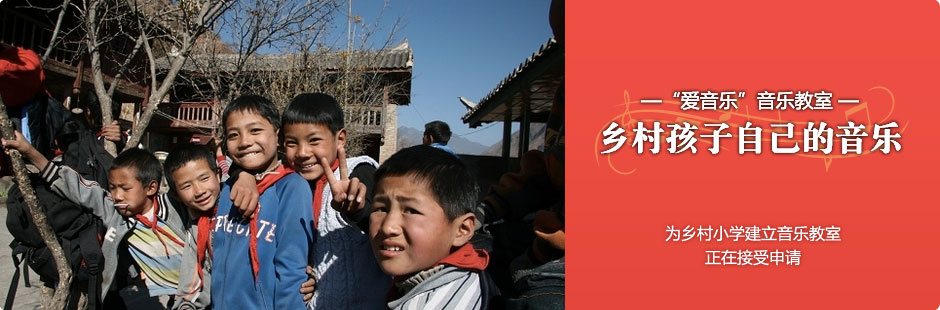
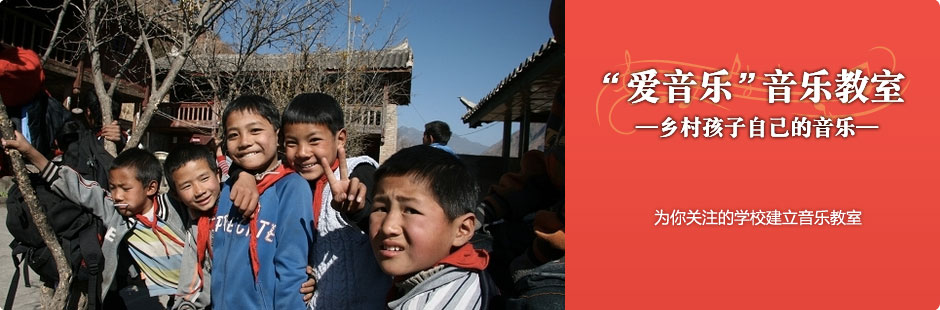
修改音乐教室页面

diff --git a/public/stylesheets/kuailebox.css b/public/stylesheets/kuailebox.css
@@ -102,3 +102,5 @@ iframe{width:588px;margin-top:10px}
 ol.required {list-style-type: decimal; margin-left:30px;font-size:13px;}
 ol.required li {margin:10px 0;}
 #writeguide{width:320px;float:right}
+#apply_mcr{background:url('/images/musicclassroom/button.png');display:block;width:174px;height:37px}
+#apply_mcr:hover{background-position:0 -37px;}
